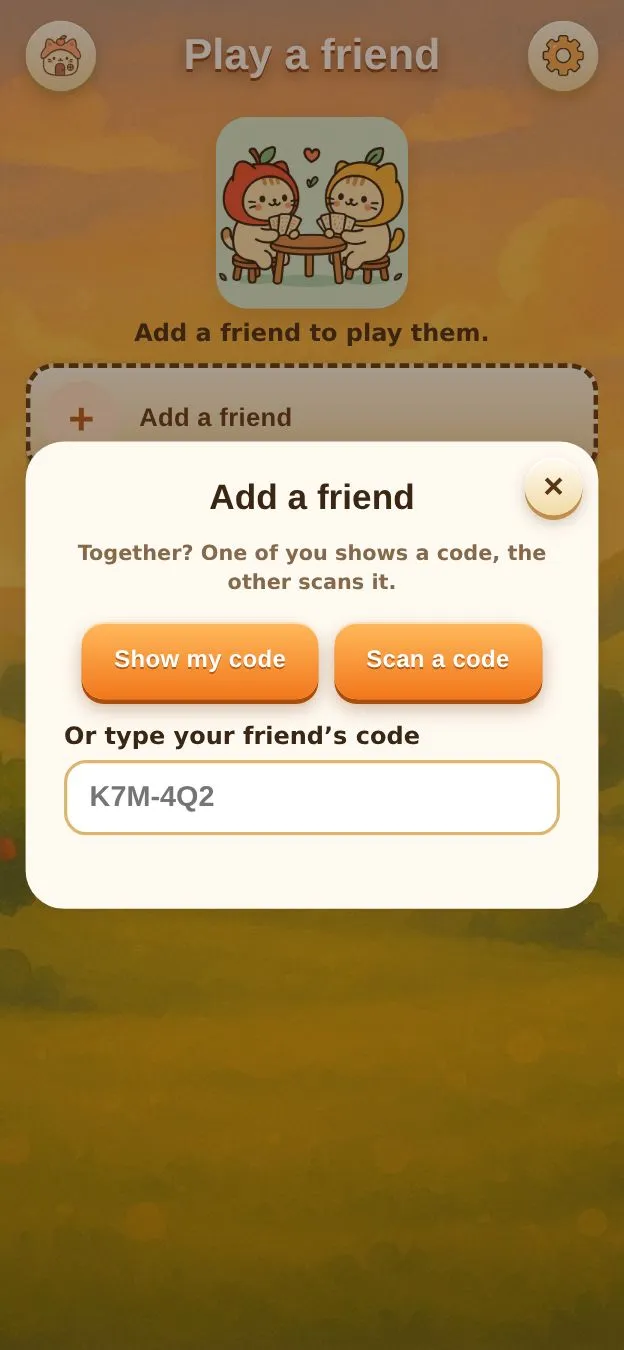
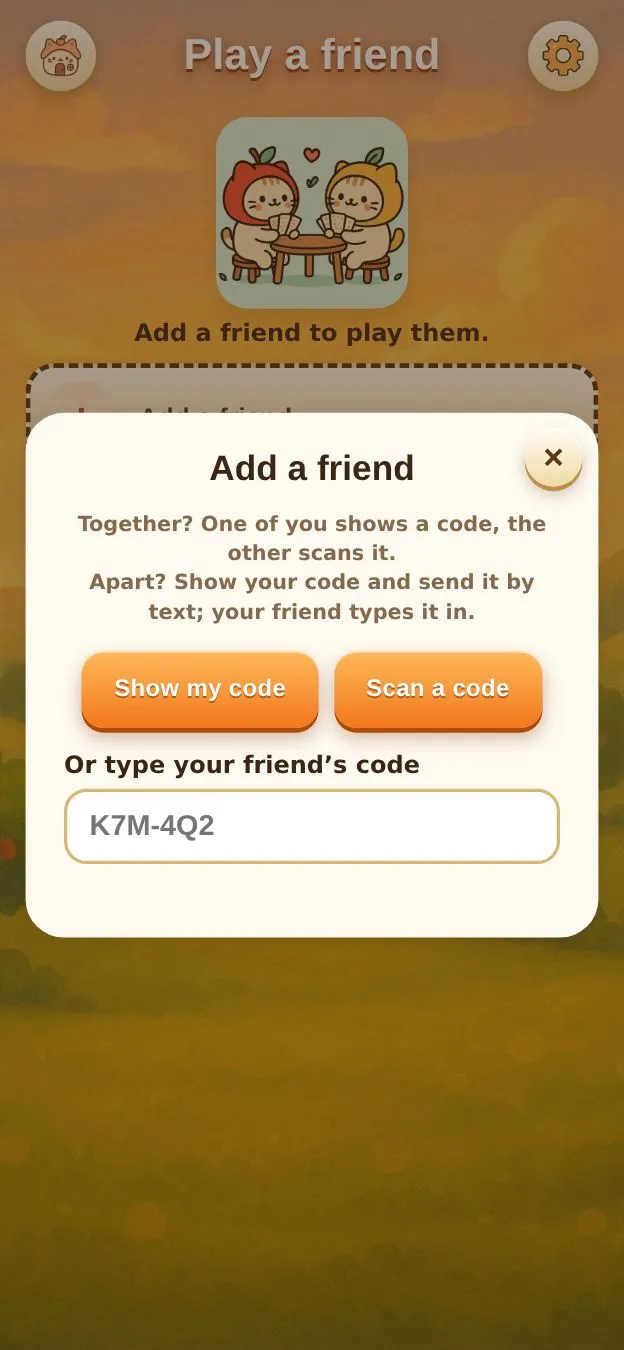
Online game on phones: your Pawtrait stays where it is in Solo (the emote badge and clock sit on it), Use ability goes under the Hero Cat's text, and Concede, Mute and Show my hand move behind one ⋯ button; send or copy your friend code by text; the guide shows both ways to add a friend
Claude-Session: https://claude.ai/code/session_01ESWJ5ydSGvNBzquBH15Neu

Changed region(s): [[0.0304, 0.28, 0.9744, 0.7156]]

diff --git a/apps/web/src/online.ts b/apps/web/src/online.ts
@@ -27,6 +27,8 @@ export interface Online {
   emotes: { seat: PlayerId; text: string; at: number }[];
   muted: boolean;
   emoting: boolean;
+  /** The ⋯ menu beside Rules and Home (Concede, Show my hand, Mute). */
+  menu: boolean;
   /** A teaching game's suggested move. */
   hint: Action | null;
   /** Someone used a "Hold on" just now. */
@@ -54,7 +56,7 @@ export function enterMatch(msg: Extract<ServerMessage, { t: 'match' }>) {
   const muted = ol?.muted ?? false;
   ol = {
     info: msg.info, clock: msg.clock, clockAt: Date.now(), showing: msg.showing, end: msg.end, rematch: msg.rematch,
-    away: null, emotes: [], muted, emoting: false, hint: null, held: null, nudgedAt: 0,
+    away: null, emotes: [], muted, emoting: false, menu: false, hint: null, held: null, nudgedAt: 0,
     versusUntil: fresh ? Date.now() + 3200 : 0, conceding: false, sent: false, undone: null,
   };
 }
@@ -127,14 +129,21 @@ export function clockChip(seat: PlayerId): string {
   return `<span class="clock-chip ${ol.clock.phase} ${low ? 'low' : ''}" data-clock="${seat}">${clockText()}</span>`;
 }
 
-/** The Pawtrait on the board, with emote bubbles over it. */
+/**
+ * The Pawtrait on the board, in the same place and size as in Solo. Everything online adds sits on it and takes no room:
+ * the clock under it, emote bubbles over it, and on yours a small 🐾 badge that opens the emotes.
+ */
 export function playerFace(seat: PlayerId): string {
   if (!ol) return '';
   const now = Date.now();
   const bubble = ol.emotes.filter((e) => e.seat === seat && now - e.at < 3000).at(-1);
+  const mine = seat === mySeat();
+  const list = (Object.keys(EMOTES) as Emote[]).filter((e) => teaching() || !['hint', 'goodtry'].includes(e));
   return `${pawtrait(ol.info.players[seat].avatar, 'board-pawtrait')}
-    ${bubble ? `<span class="emote-bubble ${seat === mySeat() ? 'mine' : ''}">${esc(bubble.text)}</span>` : ''}
-    ${clockChip(seat)}`;
+    ${bubble ? `<span class="emote-bubble ${mine ? 'mine' : ''}">${esc(bubble.text)}</span>` : ''}
+    ${clockChip(seat)}
+    ${mine && !ol.end ? `<button class="emote-open" data-click="ol:emotes" aria-expanded="${ol.emoting}" aria-label="Say something" title="Say something">🐾</button>` : ''}
+    ${mine && ol.emoting ? `<div class="emote-menu">${list.map((e) => `<button data-click="ol:emote:${e}">${esc(EMOTES[e])}</button>`).join('')}</div>` : ''}`;
 }
 
 // Once a second: the clock's numbers, redrawn in place (no full render, so a card being dragged isn't disturbed).
@@ -255,25 +264,22 @@ export function hintText(s: GameState, a: Action): string {
 
 // ── Side buttons, emotes ────────────────────────────────────────────────────────────────────────
 
-/** Buttons beside Rules and Settings in an online game. */
+/**
+ * One ⋯ button beside Rules, Settings and Home, the same in every online game, so the row never grows or wraps. It
+ * opens the rest: Concede, Show my hand (teaching games), Mute their emotes.
+ */
 export function onlineSideButtons(): string {
-  if (!ol) return '';
-  const show = teaching() && !ol.end
-    ? `<button data-click="ol:show" aria-pressed="${ol.showing[mySeat()]}">${ol.showing[mySeat()] ? 'Hide my hand' : 'Show my hand'}</button>` : '';
-  const concede = ol.end ? '' : ol.conceding
-    ? '<button class="danger" data-click="ol:concede">Yes, concede</button>'
-    : '<button data-click="ol:concedeask">Concede</button>';
-  return `${show}${concede}`;
-}
-
-/** The emote button and its choices, beside your Pawtrait. */
-export function emoteBar(): string {
   if (!ol || ol.end) return '';
-  const list = (Object.keys(EMOTES) as Emote[]).filter((e) => teaching() || !['hint', 'goodtry'].includes(e));
-  return `<div class="emote-bar">
-    <button class="icon-button emote-open" data-click="ol:emotes" aria-expanded="${ol.emoting}" aria-label="Say something" title="Say something">🐾</button>
-    ${ol.emoting ? `<div class="emote-menu">${list.map((e) => `<button data-click="ol:emote:${e}">${esc(EMOTES[e])}</button>`).join('')}
-      <button class="link-button" data-click="ol:mute">${ol.muted ? 'Show their emotes' : 'Mute their emotes'}</button></div>` : ''}
+  const show = teaching()
+    ? `<button data-click="ol:show" aria-pressed="${ol.showing[mySeat()]}">${ol.showing[mySeat()] ? 'Hide my hand' : 'Show my hand'}</button>` : '';
+  const concede = ol.conceding
+    ? '<button class="danger" data-click="ol:concede">Yes, concede</button>'
+    : '<button data-click="ol:concedeask">Concede…</button>';
+  return `<div class="game-menu-wrap">
+    <button class="game-menu-open" data-click="ol:menu" aria-expanded="${ol.menu}" aria-label="More" title="More">⋯</button>
+    ${ol.menu ? `<div class="game-menu">${show}
+      <button data-click="ol:mute">${ol.muted ? 'Show their emotes' : 'Mute their emotes'}</button>
+      ${concede}</div>` : ''}
   </div>`;
 }
 
@@ -355,14 +361,15 @@ export function onlineClick(action: string): 'home' | void {
     case 'hold': send({ t: 'hold', match: id }); return;
     case 'time': send({ t: 'time', match: id, what: arg as 'give' | 'nudge' }); return;
     case 'end': send({ t: 'end', match: id, how: arg as 'claim' | 'call-off' }); return;
+    case 'menu': ol.menu = !ol.menu; ol.conceding = false; ol.emoting = false; return;
     case 'concedeask': ol.conceding = true; return;
-    case 'concede': send({ t: 'end', match: id, how: 'concede' }); ol.conceding = false; return;
+    case 'concede': send({ t: 'end', match: id, how: 'concede' }); ol.conceding = false; ol.menu = false; return;
     case 'hint': send({ t: 'hint', match: id }); return;
     case 'undo': send({ t: 'undo', match: id }); return;
-    case 'show': send({ t: 'show', match: id, on: !ol.showing[mySeat()] }); return;
-    case 'emotes': ol.emoting = !ol.emoting; return;
+    case 'show': send({ t: 'show', match: id, on: !ol.showing[mySeat()] }); ol.menu = false; return;
+    case 'emotes': ol.emoting = !ol.emoting; ol.menu = false; return;
     case 'emote': send({ t: 'emote', match: id, emote: arg as Emote }); ol.emoting = false; return;
-    case 'mute': ol.muted = !ol.muted; ol.emoting = false; return;
+    case 'mute': ol.muted = !ol.muted; ol.menu = false; return;
     case 'rematch': send({ t: 'rematch', match: id }); return;
     case 'home': return 'home';
   }

diff --git a/apps/web/src/style.css b/apps/web/src/style.css
@@ -1119,7 +1119,7 @@ button.pf-rejoin { width: 100%; padding: 12px; border-radius: 16px; border-color
 }
 
 /* ── An online game (src/online.ts) ─────────────────────────────────────────────────────────────── */
-.player-face.online { position: relative; display: flex; align-items: center; gap: 6px; }
+.player-face.online { position: relative; }
 .clock-chip {
   position: absolute; left: 50%; bottom: -8px; transform: translateX(-50%); white-space: nowrap;
   padding: 1px 8px; border-radius: 999px; background: #fff; box-shadow: 0 1px 4px rgba(0, 0, 0, 0.25);
@@ -1133,13 +1133,34 @@ button.pf-rejoin { width: 100%; padding: 12px; border-radius: 16px; border-color
   background: #fff; box-shadow: var(--shadow); font-weight: 800; animation: pop 0.25s ease-out;
 }
 .emote-bubble::after { content: ''; position: absolute; right: 20px; top: 100%; border: 7px solid transparent; border-top-color: #fff; }
-.emote-bar { position: relative; }
-.emote-open { width: 36px; height: 36px; padding: 0; font-size: 18px; }
+/* Your 🐾 badge sits on the Pawtrait's top corner (the clock is under it): tap it for the emotes, which open above. */
+.player-face .emote-open {
+  position: absolute; left: -10px; top: -6px; z-index: 3; width: 30px; height: 30px; padding: 0; border-radius: 50%;
+  font-size: 15px; line-height: 1; background: var(--panel); border: 2px solid #fff; box-shadow: 0 1px 4px rgba(60, 30, 10, 0.35);
+}
 .emote-menu {
   position: absolute; z-index: 20; right: 0; bottom: calc(100% + 6px); display: flex; flex-direction: column; gap: 4px;
   padding: 8px; border-radius: 16px; background: var(--panel); box-shadow: var(--shadow); min-width: 150px;
 }
 .emote-menu button { text-align: left; }
+/* The ⋯ menu beside Rules and Home: Concede, Show my hand, Mute. It opens above the button on phones (the row is at
+   the bottom), below it on wide screens (the row is at the top of the side column). */
+.game-menu-wrap { position: relative; display: flex; }
+.game-menu-open { font-size: 22px; line-height: 1; font-weight: 800; }
+.game-menu {
+  position: absolute; z-index: 30; right: 0; top: calc(100% + 6px); display: flex; flex-direction: column; gap: 6px;
+  padding: 8px; border-radius: 16px; background: var(--panel); box-shadow: var(--shadow); min-width: 190px;
+}
+@media (max-width: 1000px) { .game-menu { top: auto; bottom: calc(100% + 6px); } }
+.game-menu button { width: 100%; text-align: left; }
+/* Use ability / Big Cat attack sit in the stats column, under the Hero Cat's text, instead of squeezing it. */
+.stats .hero-actions { margin-top: 2px; }
+@media (max-width: 640px) {
+  .stats:has(.hero-actions) .ability { display: none; }
+  .stats .hero-actions button { white-space: nowrap; }
+  .midbar .buttons button { white-space: nowrap; }
+  .midbar .buttons .yarn-ico { display: none; }   /* "Take the Yarn" on one line */
+}
 .foe-hand.shown { display: flex; gap: 4px; }
 .foe-hand.shown img { height: calc(var(--card-h) * 0.6); border-radius: 6px; box-shadow: 0 1px 4px rgba(0, 0, 0, 0.3); }
 .midbar .notice { margin-bottom: 2px; }
@@ -1184,3 +1205,10 @@ button.pf-rejoin { width: 100%; padding: 12px; border-radius: 16px; border-color
   .pf-option:has(.segmented) { flex-direction: column; align-items: stretch; }
   .pf-option .segmented button { flex: 1; }
 }
+/* In the bottom row, ⋯ is a small round button like the gear; its menu's buttons don't stretch like the row's. */
+.side-buttons .game-menu-wrap { flex: 0 0 auto; }
+.side-buttons .game-menu-open { flex: 0 0 44px; width: 44px; max-width: none; padding: 0; }
+.side-buttons .game-menu button { flex: none; max-width: none; }
+/* Your own emote shows to the left of your Pawtrait, clear of your 🐾 badge. */
+.emote-bubble.mine { right: calc(100% + 22px); bottom: auto; top: 50%; transform: translateY(-50%); animation: none; }
+.emote-bubble.mine::after { right: -12px; top: 50%; margin-top: -7px; border-top-color: transparent; border-left-color: #fff; }

diff --git a/apps/web/src/friends.ts b/apps/web/src/friends.ts
@@ -325,7 +325,8 @@ function renderAdd(): string {
   if (add.kind === 'menu') {
     body = `
       <h2 id="pf-add-title">Add a friend</h2>
-      <p class="account-section-note">Together? One of you shows a code, the other scans it.</p>
+      <p class="account-section-note"><b>Together?</b> One of you shows a code, the other scans it.<br>
+        <b>Apart?</b> Show your code and send it by text; your friend types it in.</p>
       <div class="pf-add-choices">
         <button class="primary" data-click="pf:show">Show my code</button>
         ${canScan() ? '<button class="primary" data-click="pf:scan">Scan a code</button>' : ''}
@@ -339,7 +340,12 @@ function renderAdd(): string {
       <h2 id="pf-add-title">Your friend code</h2>
       <div class="pf-qr">${qrSvg(add.code)}</div>
       <p class="friend-code" aria-label="Your friend code">${esc(add.code.slice(0, 3))}-${esc(add.code.slice(3))}</p>
-      <p class="account-section-note">Your friend scans this in Fruitcats (Play a friend → Add a friend → Scan a code), or types it. It works once.</p>
+      <p class="account-section-note">Together: your friend scans the QR code. Apart: send them the code, and they type it
+        in (Friend → Add a friend). It works once, for 15 minutes.</p>
+      <div class="pf-add-choices">
+        ${canShare() ? '<button class="primary" data-click="pf:sharecode">Send the code</button>' : ''}
+        <button ${canShare() ? '' : 'class="primary"'} data-click="pf:copycode">Copy the code</button>
+      </div>
       <p class="pf-note" role="status">${esc(note)}</p>`;
   } else if (add.kind === 'scan') {
     body = `
@@ -434,9 +440,30 @@ async function showCode() {
   host?.render();
 }
 
+/** The phone's own share sheet (Messages, WhatsApp, …): phones have it; most computers don't. */
+const canShare = () => typeof navigator.share === 'function';
+
+/** What's sent: the code and where to type it. No link: the code is the whole invitation. */
+const shareText = (code: string) =>
+  `Add me as a friend in Fruitcats! My friend code is ${code.slice(0, 3)}-${code.slice(3)}. `
+  + 'In the game: Friend → Add a friend → type the code. It works for 15 minutes. (Fruitcats: fruitcats.viamochi.com)';
+
+async function shareCode(how: 'share' | 'copy') {
+  if (add.kind !== 'show') return;
+  const text = shareText(add.code);
+  try {
+    if (how === 'share') { await navigator.share({ text }); note = ''; }
+    else { await navigator.clipboard.writeText(text); note = 'Copied: paste it into a message to your friend.'; }
+  } catch (e) {
+    // Closing the share sheet isn't an error; a clipboard that won't copy is.
+    if ((e as Error).name !== 'AbortError') note = `Couldn’t ${how === 'share' ? 'share' : 'copy'} it: read the code out instead.`;
+  }
+  host?.render();
+}
+
+/** The code sheet closed. The code itself stays valid (it may have been sent by text), so the API keeps it too. */
 function stopShowing() {
   window.clearTimeout(codeTimer);
-  if (add.kind === 'show') send({ t: 'code', code: null });
   void wakeLock?.release().catch(() => {});
   wakeLock = null;
 }
@@ -615,6 +642,8 @@ export function friendsClick(action: string, h: FriendsHost): void {
     case 'rejoin': if (live.match) send({ t: 'rejoin', match: live.match }); return;
     case 'add': add = { kind: 'menu' }; note = ''; typed = ''; adding = true; break;
     case 'show': void showCode(); return;
+    case 'sharecode': void shareCode('share'); return;
+    case 'copycode': void shareCode('copy'); return;
     case 'scan': add = { kind: 'scan' }; note = ''; break;
     case 'addyes': if (add.kind === 'confirm') void addFriend(add.code); return;
     case 'addcancel': add = { kind: 'menu' }; note = ''; break;

diff --git a/apps/web/src/main.ts b/apps/web/src/main.ts
@@ -22,7 +22,7 @@ import { deckForKey, isReady, listDecks, customKey, loadChosenDeck, saveChosenDe
 import { addOpen, closeAddSheet, closeFriends, friendsClick, friendsInput, friendsMounted, openFriends, renderChallengeBanner, renderFriends, type FriendsHost } from './friends';
 import { live, onLive, send, startLive, stopLive, wantConnection } from './live';
 import {
-  emoteBar, enterMatch, forgetOnline, hintText, leaveMatch, ol, onlineBar, onlineClick, onlineMessage, onlineSideButtons, onlineTicks,
+  enterMatch, forgetOnline, hintText, leaveMatch, ol, onlineBar, onlineClick, onlineMessage, onlineSideButtons, onlineTicks,
   playerFace, renderOnlineResult, renderVersus, shownHand, teaching, them,
 } from './online';
 import {
@@ -1062,13 +1062,13 @@ function renderPlayer(s: GameState, p: PlayerId, targets: Set<string>, legal: Ac
       </div>
       <div class="ability" title="${esc(side.text)}" data-click="heroinfo:${p}"
            data-zoom="${(p === mySeat ? yourCardUrl : cardUrl)(heroKey(s, p))}" data-zoom-card="${heroKey(s, p)}">${esc(side.text).replace(/(Exhaust[^:]*:|Grow Up:)/g, '<b>$1</b>').replace(/\n/g, '<br>')}</div>
+      ${p === mySeat && (canAbility || canAttack) ? `<div class="hero-actions">
+        ${canAbility ? '<button class="primary" data-click="btn:ability">Use ability</button>' : ''}
+        ${canAttack ? '<button class="primary" data-click="btn:heroattack">Big Cat attack</button>' : ''}
+      </div>` : ''}
     </div>
-    ${p === mySeat && (canAbility || canAttack) ? `<div class="hero-actions">
-      ${canAbility ? '<button class="primary" data-click="btn:ability">Use ability</button>' : ''}
-      ${canAttack ? '<button class="primary" data-click="btn:heroattack">Big Cat attack</button>' : ''}
-    </div>` : ''}
     ${p === theirSeat ? shownHand(s) ?? `<div class="foe-hand">${pl.hand.map(() => '<div class="card-back"></div>').join('')}</div>` : ''}
-    ${ol ? `<div class="player-face online">${playerFace(p)}${p === mySeat ? emoteBar() : ''}</div>`
+    ${ol ? `<div class="player-face online">${playerFace(p)}</div>`
       : ACCOUNTS ? `<div class="player-face">${boardFace(p === mySeat ? 'you' : 'computer', CARDS[pl.hero.id].family)}</div>` : ''}
   </section>`;
 }

diff --git a/apps/api/src/live/hub.ts b/apps/api/src/live/hub.ts
@@ -167,6 +167,7 @@ export function createHub(deps: HubDeps) {
     const now = Date.now();
     for (const [a, h] of here) if (now - h.at > HERE_MS) { here.delete(a); void deps.store.seen(a, new Date(h.at).toISOString()).catch(() => {}); }
     for (const [a, w] of waiting) if (now - w.asked > WAITING_KEPT_MS) waiting.delete(a);
+    for (const [code, v] of codes) if (v.expires < now) codes.delete(code);
     for (const [a, until] of letIn) if (until < now) letIn.delete(a);
     for (const c of conns.values()) {
       if (now - c.active < IDLE_CONNECTION_MS || inGame(c.account!)) continue;
@@ -458,7 +459,7 @@ export function createHub(deps: HubDeps) {
     void deps.store.seen(me, new Date().toISOString()).catch(() => {});
     seenCache.delete(me);
     for (const ch of [...challenges.values()]) if (ch.from === me || ch.to === me) endChallenge(ch, 'offline');
-    for (const [code, v] of codes) if (v.account === me) codes.delete(code);
+    // A code shown stays known for its 15 minutes: it may have been sent by text, to a friend who types it later.
     const m = matches.get(matchOf.get(me) ?? '');
     if (m) m.dropped(m.seatOf(me)!);
     announce(me);

diff --git a/apps/api/test/live.test.ts b/apps/api/test/live.test.ts
@@ -640,6 +640,22 @@ describe('friend codes', () => {
     expect(pippin.last('looked')!.person).toBeNull();
   });
 
+  it('still knows a code sent by text after its phone has left, until it runs out', async () => {
+    const sam = await connect(A);
+    sam.send({ t: 'code', code: 'K7M4Q2' });
+    await flush();
+    sam.drop();
+    await flush();
+    const pippin = await connect(B);
+    pippin.send({ t: 'lookup', code: 'K7M-4Q2' });
+    await flush();
+    expect(pippin.last('looked')!.person).toMatchObject({ name: 'Sam' });
+    vi.advanceTimersByTime(16 * 60_000);
+    pippin.send({ t: 'lookup', code: 'K7M-4Q2' });
+    await flush();
+    expect(pippin.last('looked')!.person).toBeNull();
+  });
+
   it('won’t let codes be guessed by trying them all', async () => {
     const pippin = await connect(B);
     for (let i = 0; i < 15; i++) pippin.send({ t: 'lookup', code: `AAAA${String(i).padStart(2, '0')}` });

diff --git a/docs/friends.md b/docs/friends.md
@@ -19,7 +19,10 @@ Already have an account on another device? Same steps: type your email, then the
 
 ## Add a friend
 
-Easiest with both phones together: one shows a code, the other scans it.
+Two ways: **together**, one phone shows a QR code and the other scans it; or **apart**, you send your code by text and
+your friend types it in.
+
+### Together: scan the QR code
 
 <div class="steps">
 <figure><img src="guide/friends/friend-1-empty.webp" alt="Play a friend, with only Add a friend in the list" loading="lazy"><figcaption><b>1</b> Both of you: tap <b>Friend</b>, then <b>+ Add a friend</b>.</figcaption></figure>
@@ -30,8 +33,16 @@ Easiest with both phones together: one shows a code, the other scans it.
 <figure><img src="guide/friends/friend-6-done.webp" alt="You and Sam are now friends!" loading="lazy"><figcaption><b>6</b> Friends! Both phones say so, with a <b>Play</b> button.</figcaption></figure>
 </div>
 
-Not together? The code is under the QR code (like **K7M-4Q2**): read it out or send it, and your friend types it in the
-box under **Scan a code**. A code works once, for 15 minutes.
+### Apart: send your code
+
+<div class="steps">
+<figure><img src="guide/friends/friend-3-code.webp" alt="Your friend code, with Send the code and Copy the code" loading="lazy"><figcaption><b>1</b> Tap <b>Friend</b> → <b>+ Add a friend</b> → <b>Show my code</b>, then <b>Send the code</b>: pick Messages, WhatsApp or anything else.</figcaption></figure>
+<figure><img src="guide/friends/friend-typed.webp" alt="Add a friend, with a code being typed into the box" loading="lazy"><figcaption><b>2</b> Your friend taps <b>Friend</b> → <b>+ Add a friend</b> and types the code into the box.</figcaption></figure>
+<figure><img src="guide/friends/friend-5-confirm.webp" alt="Add Sam as a friend? Cancel or Add" loading="lazy"><figcaption><b>3</b> They check it's you, and tap <b>Add</b>.</figcaption></figure>
+</div>
+
+A code works **once**, for **15 minutes**: send it when your friend is ready. Out of time? Show your code again for a new one.
+On a computer, **Copy the code** copies the message, ready to paste.
 
 ## Play a friend
 
@@ -43,8 +54,9 @@ box under **Scan a code**. A code works once, for 15 minutes.
 <figure><img src="guide/friends/play-5-answer.webp" alt="A challenge: pick a deck, then Not now or Play" loading="lazy"><figcaption><b>5</b> They pick their deck and tap <b>Play</b>.</figcaption></figure>
 <figure><img src="guide/friends/play-6-versus.webp" alt="You vs Sam, with both Hero Cats" loading="lazy"><figcaption><b>6</b> The game starts.</figcaption></figure>
 <figure><img src="guide/friends/play-7-game.webp" alt="An online game: Sam says Meow!, your clock shows 2:00" loading="lazy"><figcaption><b>7</b> Play as usual. The clock under your Pawtrait shows your time; <b>Hold on</b> gives you more.</figcaption></figure>
-<figure><img src="guide/friends/play-8-emotes.webp" alt="The emote menu: Meow!, Purr, Hiss!, Good game!" loading="lazy"><figcaption><b>8</b> Tap 🐾 to say something.</figcaption></figure>
-<figure><img src="guide/friends/play-9-result.webp" alt="You win! You 1 – 0 Sam, with Rematch and Home" loading="lazy"><figcaption><b>9</b> At the end: your score against each other, and <b>Rematch</b>.</figcaption></figure>
+<figure><img src="guide/friends/play-8-emotes.webp" alt="The emote menu: Meow!, Purr, Hiss!, Good game!" loading="lazy"><figcaption><b>8</b> Tap 🐾 on your Pawtrait to say something.</figcaption></figure>
+<figure><img src="guide/friends/play-menu.webp" alt="The ⋯ menu: Mute their emotes, Concede" loading="lazy"><figcaption><b>9</b> ⋯ has the rest: <b>Concede</b>, <b>Mute their emotes</b>, and in a teaching game <b>Show my hand</b>.</figcaption></figure>
+<figure><img src="guide/friends/play-9-result.webp" alt="You win! You 1 – 0 Sam, with Rematch and Home" loading="lazy"><figcaption><b>10</b> At the end: your score against each other, and <b>Rematch</b>.</figcaption></figure>
 </div>
 
 ### How to play: the choices
